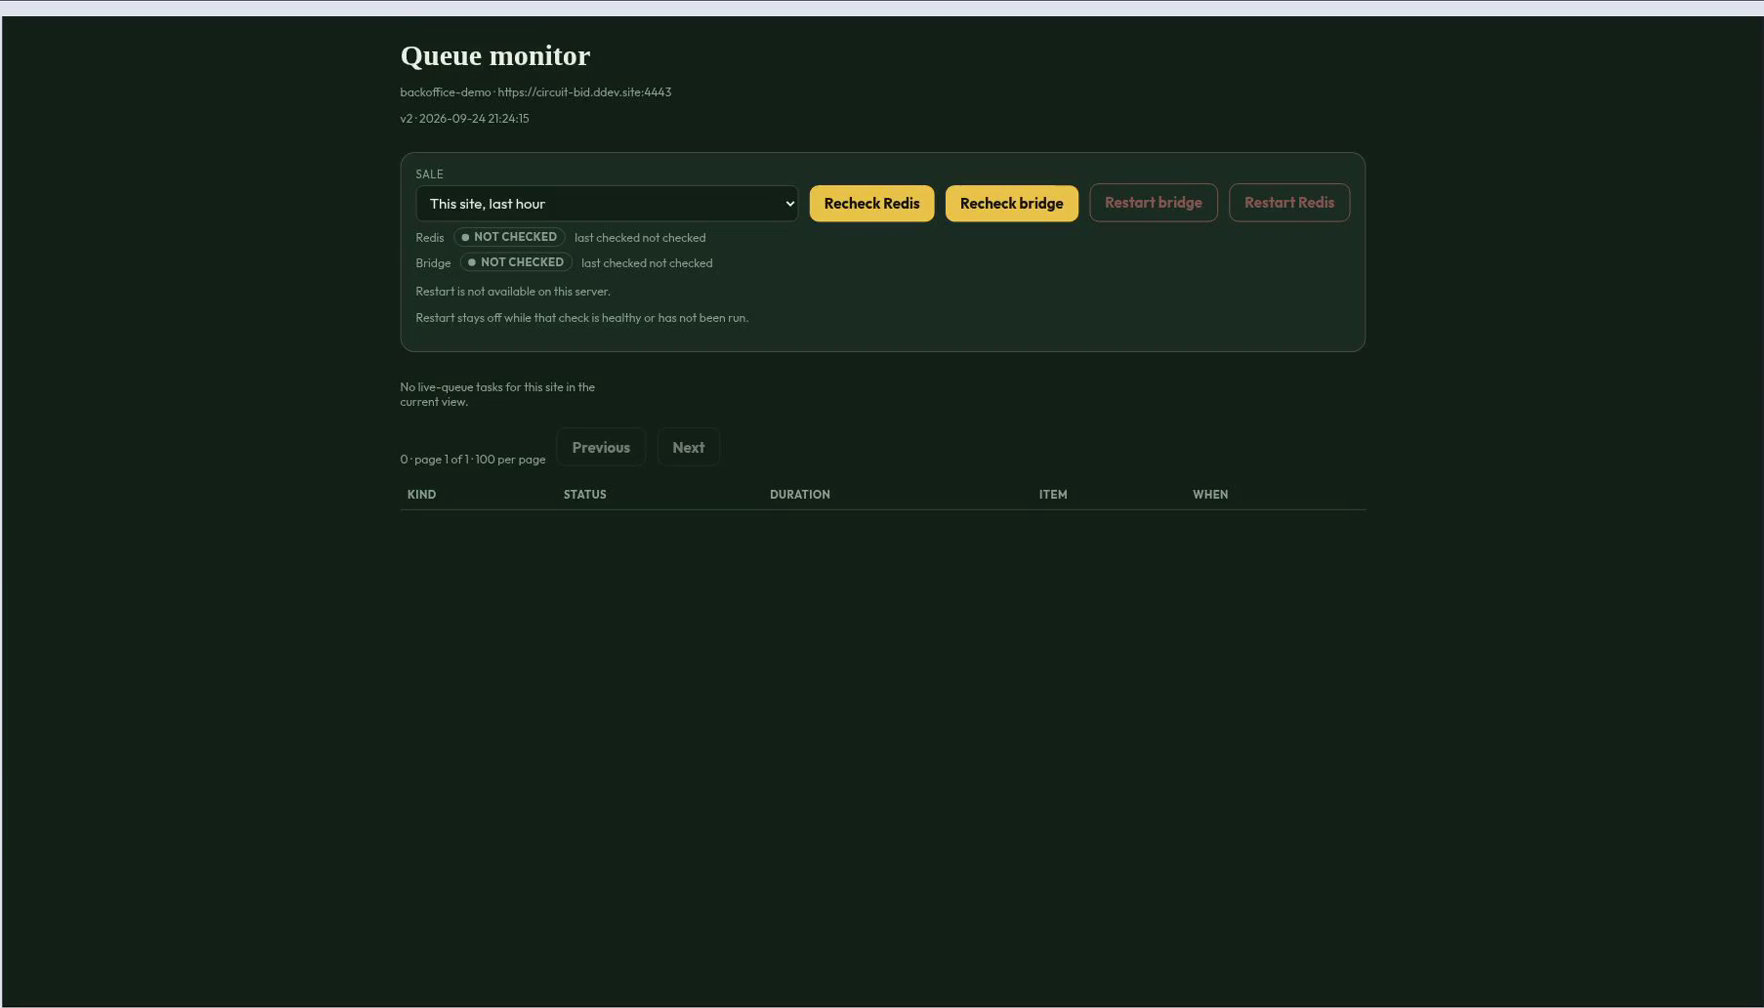
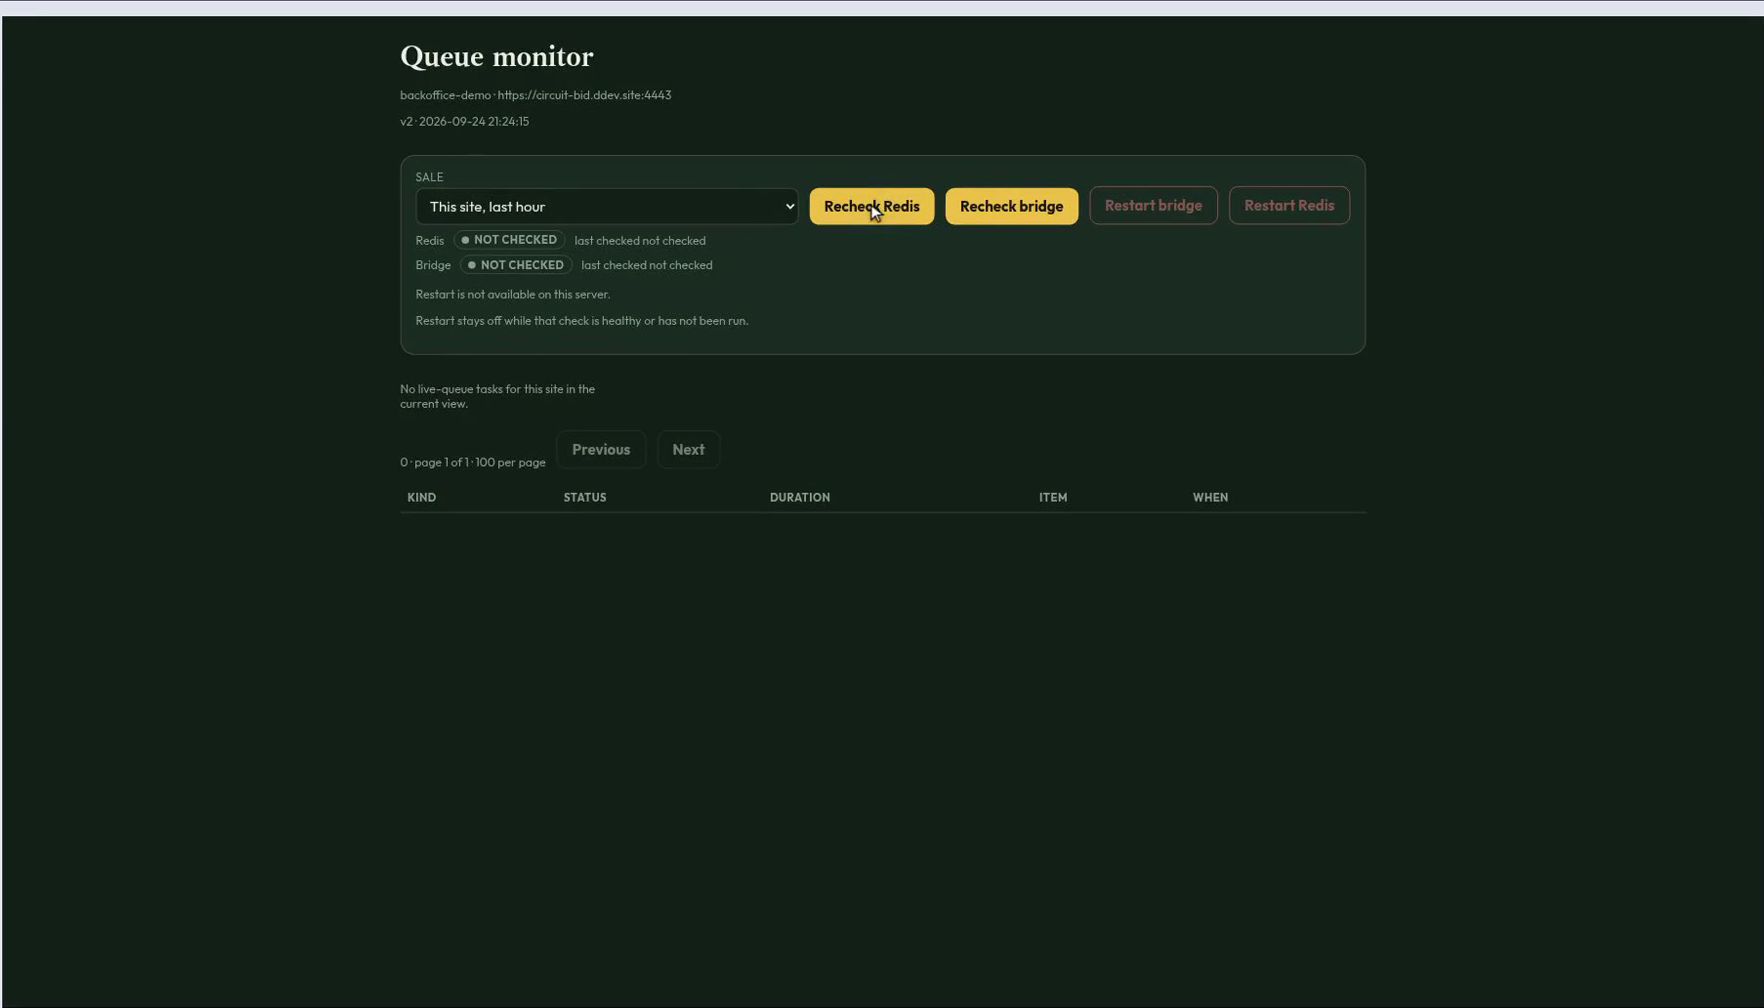
3.5: health monitor — recheck and restart wording, new screenshot (EN/DE)

diff --git a/de/release-notes/version-3.5.md b/de/release-notes/version-3.5.md
@@ -1,4 +1,4 @@
-<!-- i18n source=release-notes/version-3.5.md sha=97785421b98f -->
+<!-- i18n source=release-notes/version-3.5.md sha=a7f6e2694059 -->
 # Version 3.5
 
 Kommendes Release. Version 3.5 konzentriert sich auf Auswertungen, die Kommunikation mit Kunden und Werkzeuge, die die tägliche Verwaltung erleichtern. Zu den Highlights gehören eine neue Seite Auction Timeline, ein überarbeiteter Statistik-Tab für Kunden, ein Kunden-CRM mit Zeitleiste und Einlieferungs-Pipeline, ein integrierter Editor für E-Mail-Vorlagen, automatische Zahlungserinnerungen für Rechnungen, die Zwei-Faktor-Authentifizierung mit einer Authenticator-App und ein dunkler Modus für das gesamte Backoffice.
@@ -240,4 +240,4 @@ Ein Mond-Symbol in der oberen Leiste neben der Benachrichtigungsglocke schaltet 
 
 ![Der Queue-Monitor der Gesundheitsseite des Bid-Servers](../../assets/screenshots/release-3.5-health-monitor.png)
 
-Die Schaltfläche **Health** in der oberen Leiste öffnet einen Monitor für die Verbindung zum Bid-Server und seine Warteschlangen. Die Warteschlange startet sich bei einem Stillstand jetzt automatisch neu, sodass sich das Live-Bieten ohne manuelles Eingreifen erholt.
+Die Schaltfläche **Health** in der oberen Leiste öffnet einen Monitor für die Verbindung zum Bid-Server und seine Warteschlangen. Falls die Live-App stehen geblieben ist, können Sie dort den Status des Redis- und des Queue-Servers mit den **Recheck**-Schaltflächen prüfen. In den meisten Fällen startet der Server automatisch neu; falls nicht, verwenden Sie die **Restart**-Schaltfläche, die in diesem Fall aktiviert wird.

diff --git a/release-notes/version-3.5.md b/release-notes/version-3.5.md
@@ -239,4 +239,4 @@ A moon icon in the top bar, next to the notifications bell, switches the whole b
 
 ![The queue monitor of the bid server health page](../assets/screenshots/release-3.5-health-monitor.png)
 
-A **Health** button in the top bar opens a monitor of the bid server connection and its queues. The queue now restarts itself automatically when it stalls, so live bidding recovers without manual intervention.
+A **Health** button in the top bar opens a monitor of the bid server connection and its queues. In case the live app has stopped, you can check the status of the Redis and queue servers there by clicking the **Recheck** buttons. In most cases the server restarts automatically; if it does not, use the **Restart** button, which is enabled in that case.
